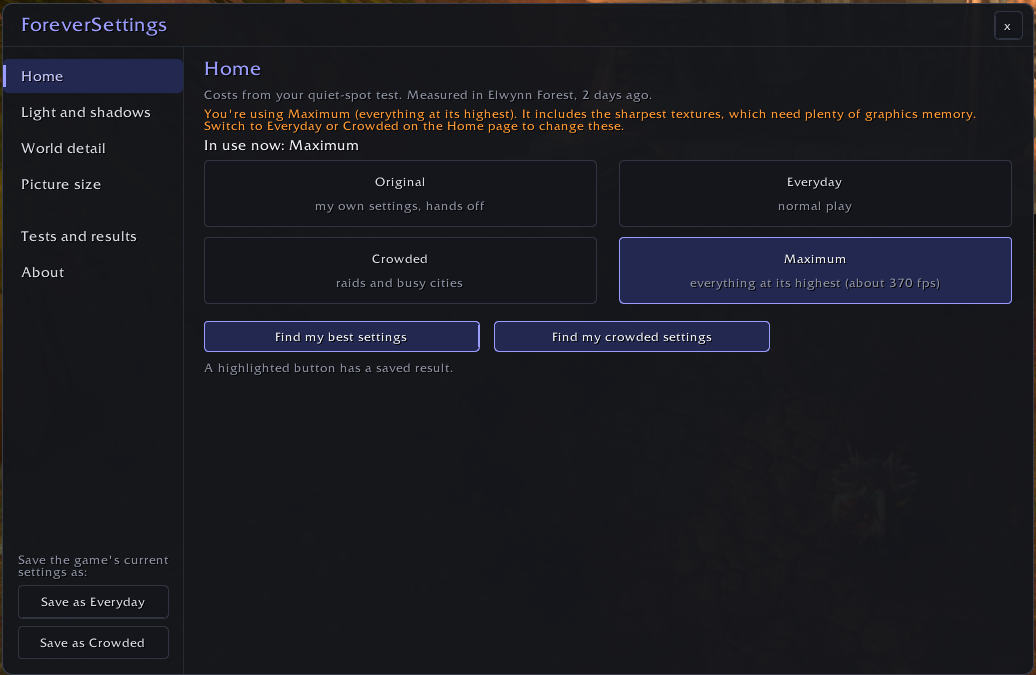
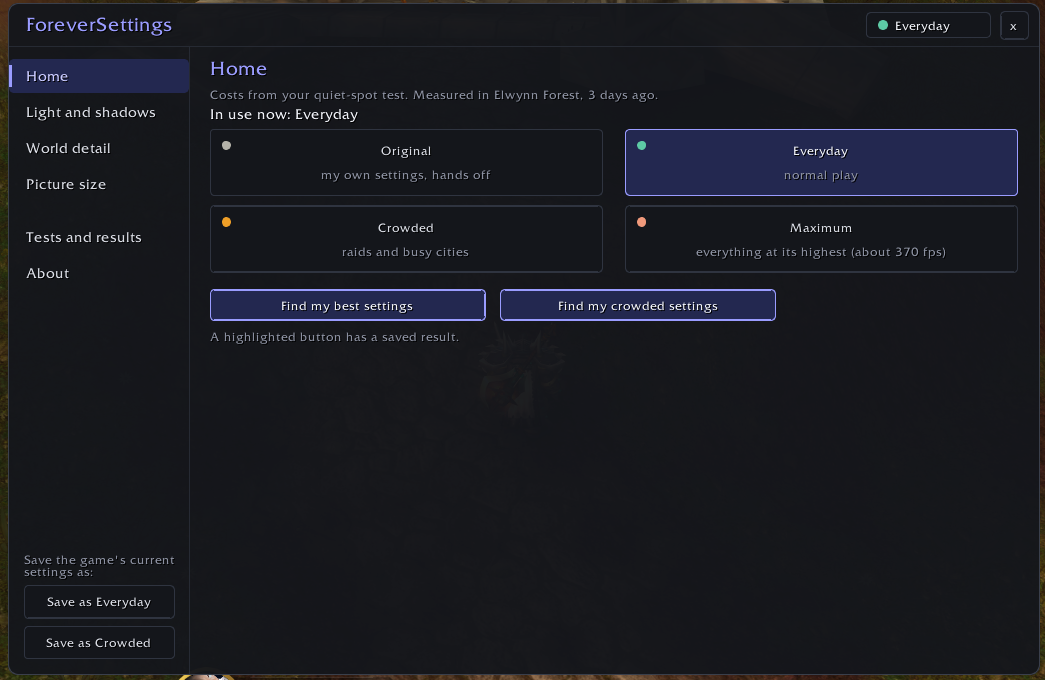
Show the new My settings in the Home and Picture size previews

diff --git a/README.md b/README.md
@@ -40,9 +40,9 @@ An addon for **WoW Forever**.
 The **Home** page switches profile and starts the tests. The **Picture size** page has a slider and size buttons for picture sharpness, up to 200%. Both keep the size in the profile in use. A warning says that high values can crash some graphics cards, and holding Shift while you enter the world skips a saved size above 100% for that session.
 
 <p align="center">
-  <img src=".previews/home.png" alt="My settings, Home page: the four profiles and the two test buttons" width="355">
+  <img src=".previews/home.png" alt="My settings, Home page: the four profiles with their colour dots, the profile in use in the pill by the close button, and the two test buttons" width="355">
   &nbsp;&nbsp;
-  <img src=".previews/picture-size.png" alt="My settings, Picture size page: the picture sharpness slider" width="355">
+  <img src=".previews/picture-size.png" alt="My settings, Picture size page: the size buttons with their fps costs and the picture sharpness slider" width="355">
 </p>
 
 ## Profiles
